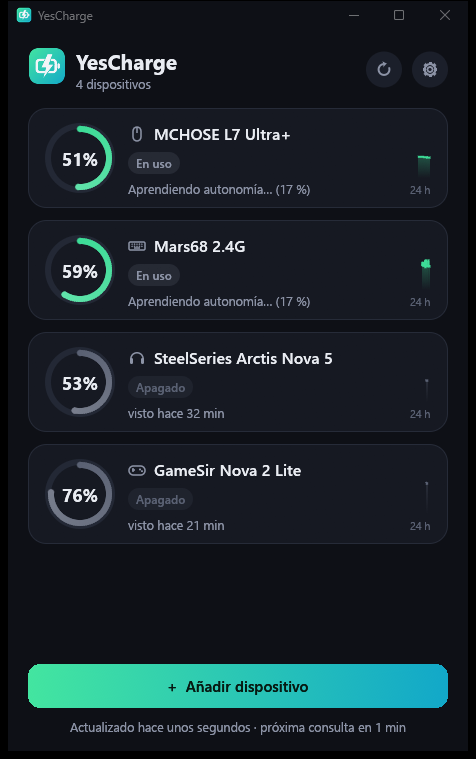
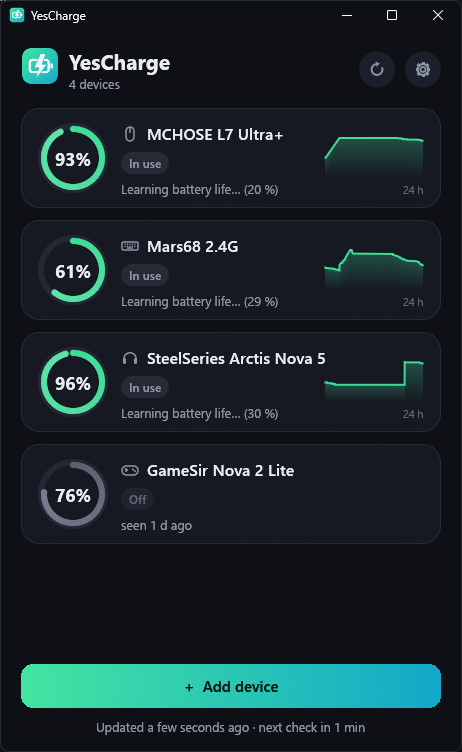
Usa una captura en inglés en el README en inglés

diff --git a/README.es.md b/README.es.md
@@ -13,7 +13,7 @@ dispositivos.**
 
 [English](README.md) · **Español** · [Cambios por versión](CHANGELOG.es.md)
 
-<img src="docs/images/home.png" alt="Ventana de YesCharge con la batería de un ratón, un teclado, unos auriculares y un mando" width="380">
+<img src="docs/images/home-es.png" alt="Ventana de YesCharge con la batería de un ratón, un teclado, unos auriculares y un mando" width="380">
 
 </div>
 
